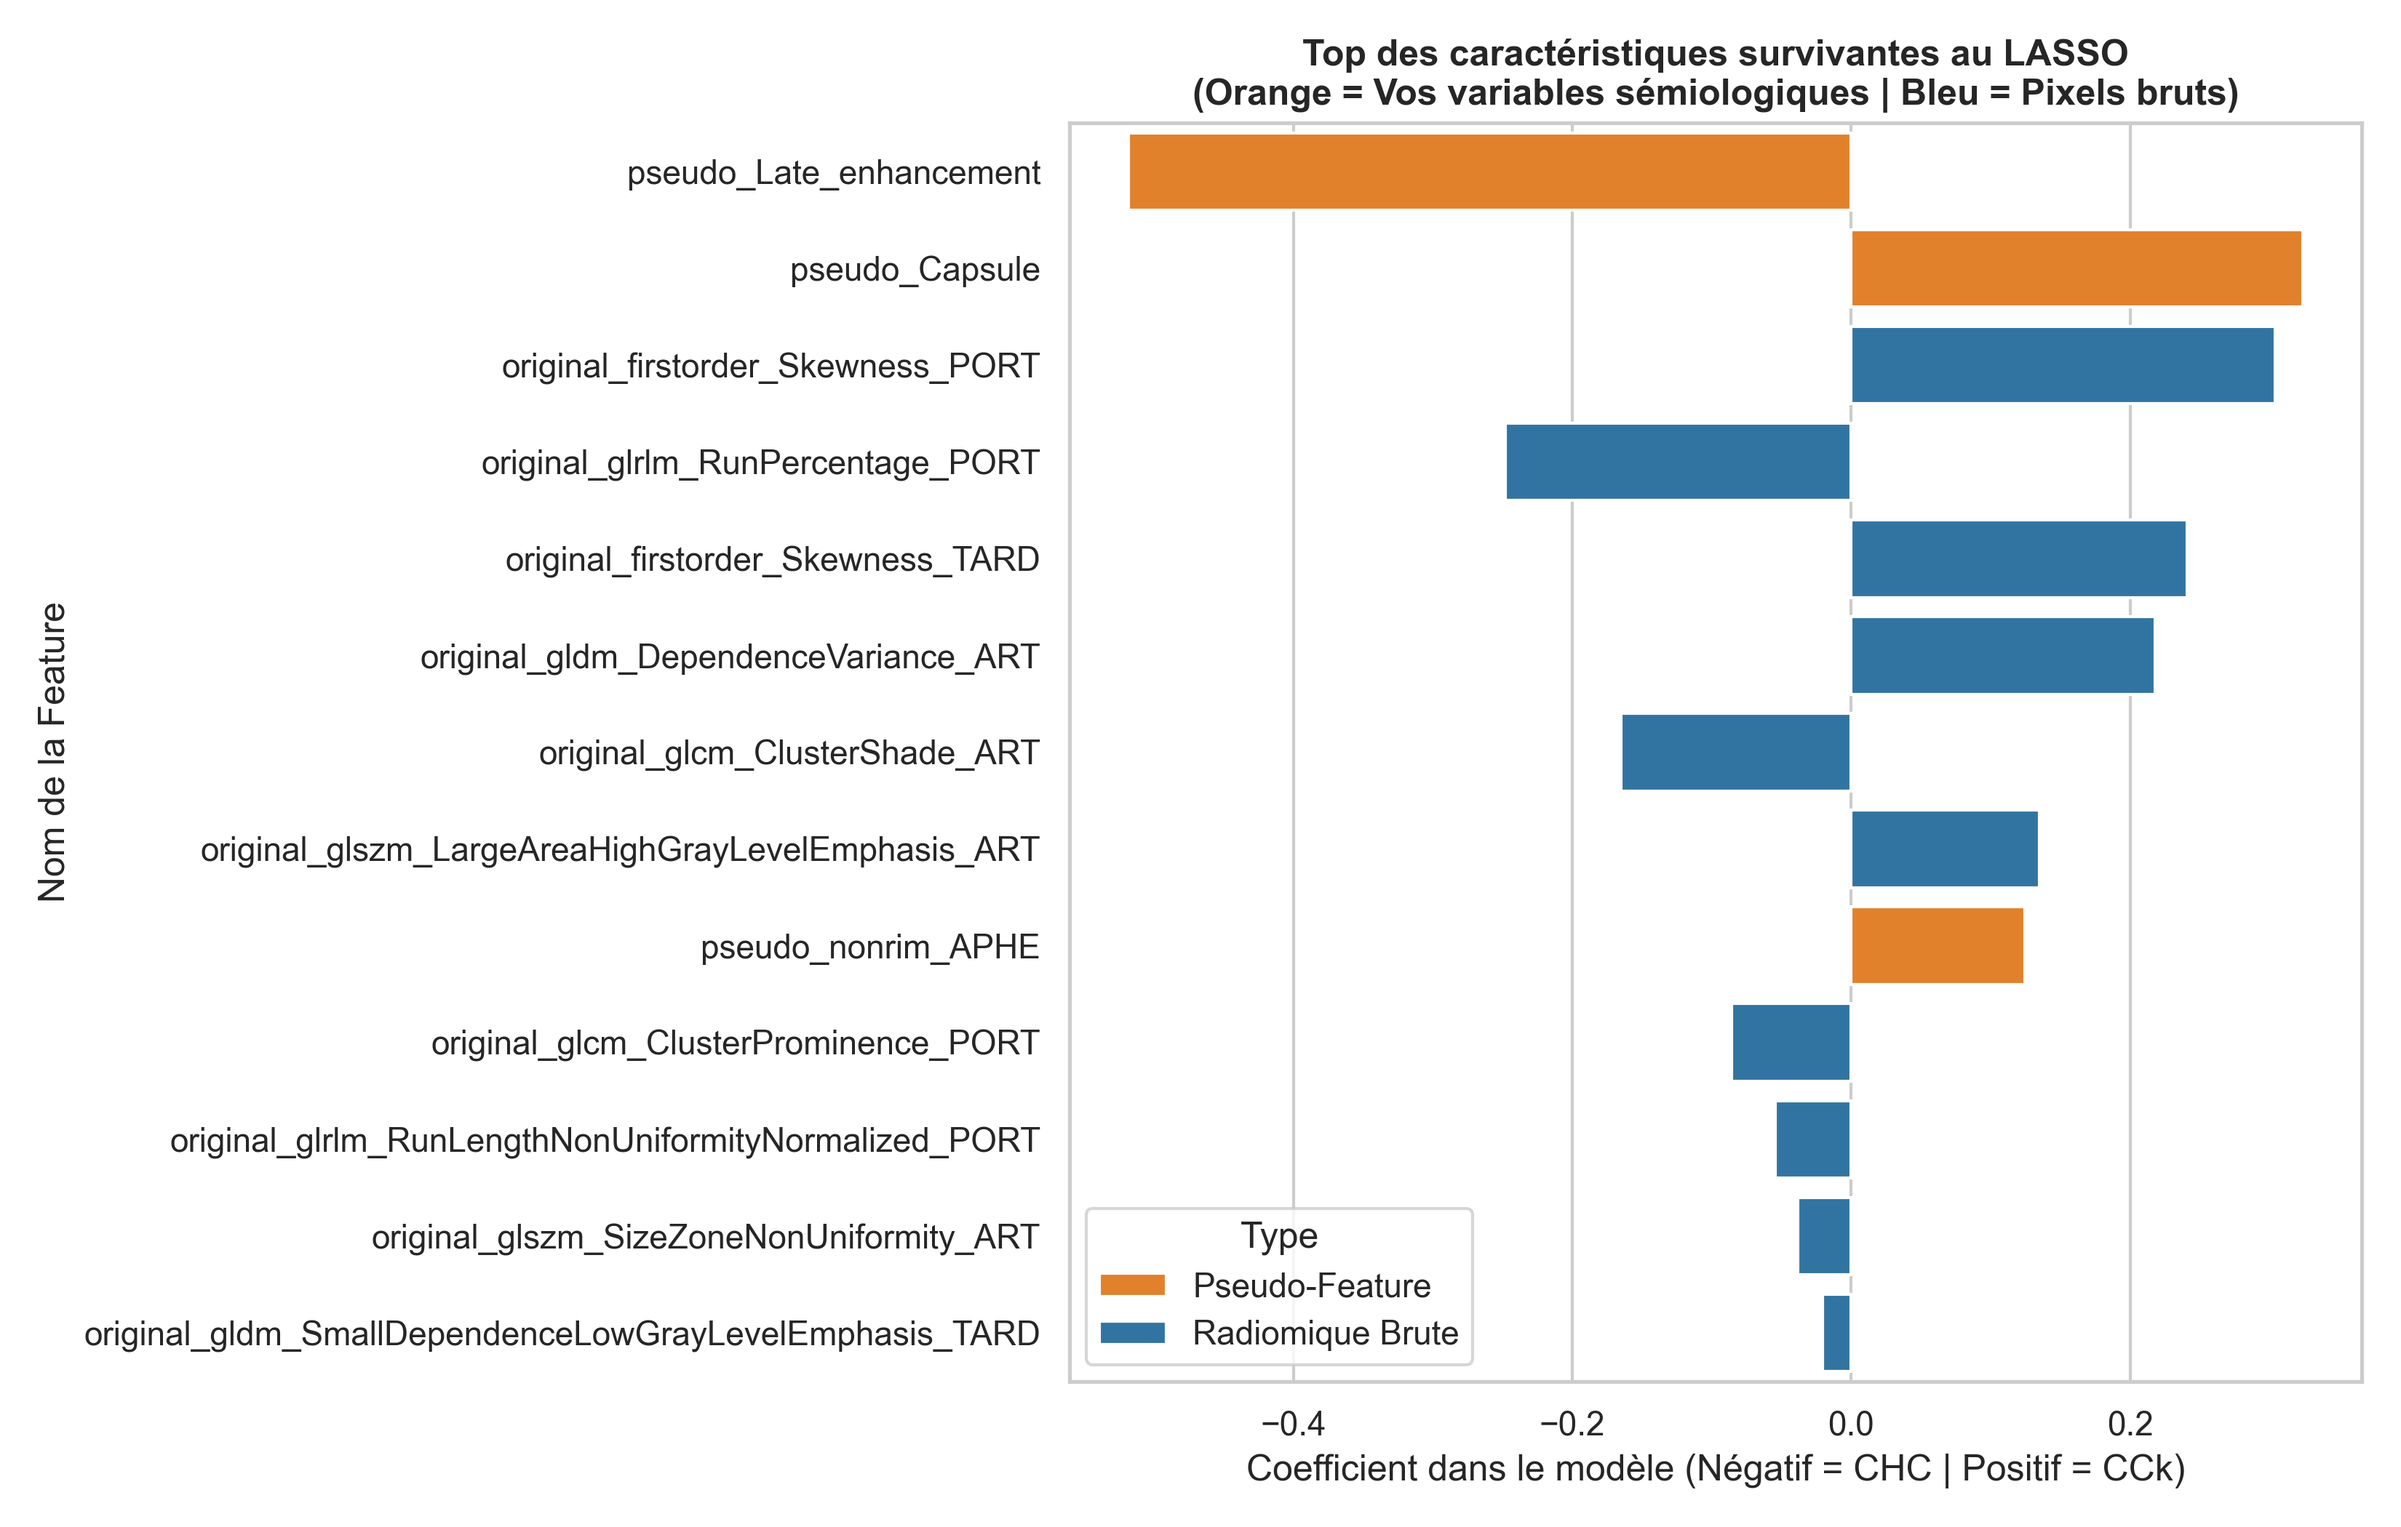
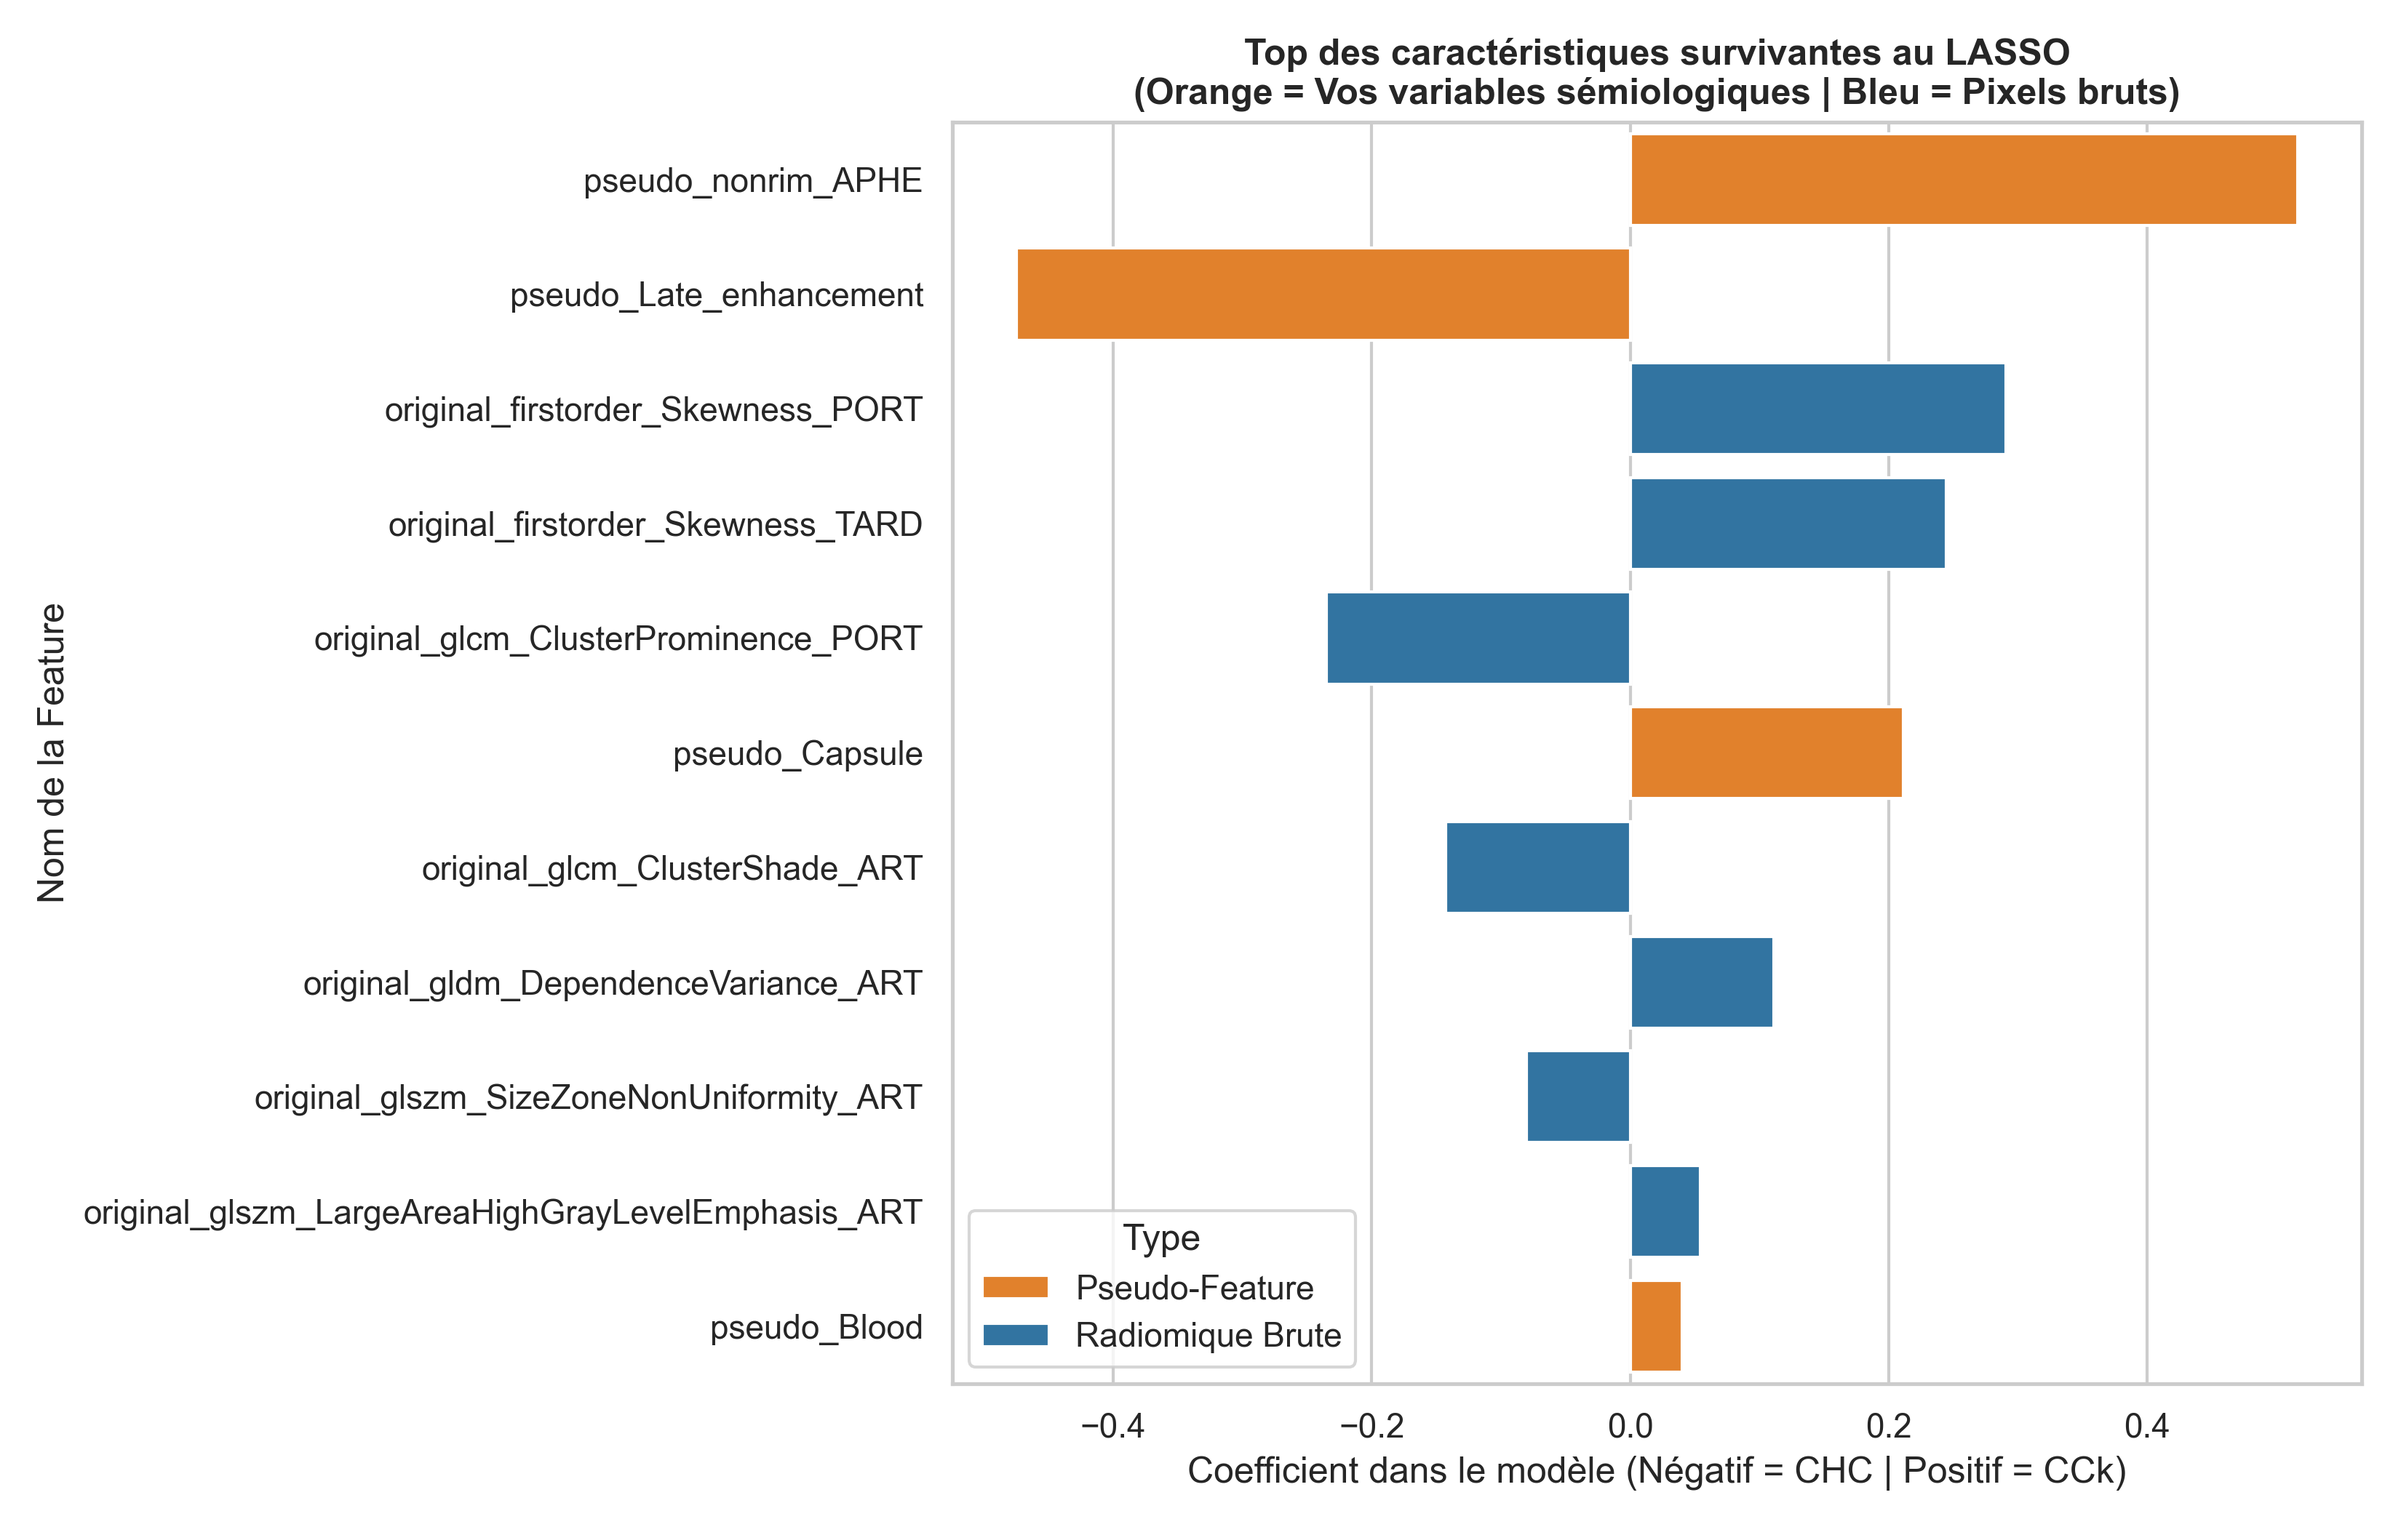
Update pipeline outputs and gridsearch/optipoids scripts
- Regenerated radiomics extraction outputs: multislice_excel_basic,
  flatted_global_scaled_uncor, Relectures_imageries (3D shape features,
  scaled/aggregated per patient instead of raw per-slice rows)
- Updated the two plots depending on this data
- gridsearch.py: improved heatmap plotting (shared colorbar, cleaner layout),
  scoped to the flatted_global_scaled_uncor input for now
- optipoids.py: explicit L2 penalty on the logistic regression

diff --git a/gridsearch.py b/gridsearch.py
@@ -8,6 +8,7 @@ from sklearn.model_selection import train_test_split
 from sklearn.preprocessing import LabelEncoder
 from validation import *
 
+"""
 input_list = [
     'global_excel_resampled_normalized_flattened.csv',
     'global_excel_resampled_normalized_flattened_deltas.csv',
@@ -15,13 +16,23 @@ input_list = [
     'flatted_global_scaled_uncor.csv',
     'flatted_global_scaled_uncor_08.csv'
 ]
+"""
 
+input_list = [
+    'flatted_global_scaled_uncor.csv'
+]
+"""
 input_titles = [
     'Manually Normalized Flattened',
     'Manually Normalized Flattened with Deltas',
     'Normalized Flattened',
     'Normalized Flattened Uncorrelated (0.9)',
     'Normalized Flattened Uncorrelated (0.8)'
+]
+"""
+
+input_titles = [
+    'Normalized Flattened Uncor',
 ]
 
 C_list = [5, 4, 3, 2, 1, 0.5, 0.3, 0.1]
@@ -85,20 +96,49 @@ for input_file, input_title in zip(input_list, input_titles):
 df_results = pd.DataFrame(results)
 
 if not df_results.empty:
-    # metrics = ['Accuracy', 'AUC', 'F1', 'MCC']
     metrics = ['Accuracy', 'F1']
-    # fig, axes = plt.subplots(1, 2, figsize=(16, 6))
-    # axes = axes.flatten()
+    fig, axes = plt.subplots(len(metrics), 1, figsize=(12, 14), sharex=True)
+    axes = np.atleast_1d(axes)
 
-    for metric in metrics:
-        plt.figure(figsize=(10, 6))
-        # Pivot des données pour seaborn (Lignes: Fichiers, Colonnes: C, Valeurs: Métrique)
+    # Calculer la plage commune pour la barre de couleur
+    all_values = pd.concat([
+        df_results.pivot(index='Input', columns='C', values=metric).stack()
+        for metric in metrics
+    ])
+    vmin = all_values.min()
+    vmax = all_values.max()
+
+    heatmap_im = None
+    for ax, metric in zip(axes, metrics):
         pivot_table = df_results.pivot(index='Input', columns='C', values=metric)
-        sns.heatmap(pivot_table, annot=True, cmap='BuPu', fmt='.1%', square=True)
-        plt.title(f'Heatmap - {metric}\nComparaison (Moyennes k-fold) selon l\'Input et C', fontweight='bold', fontsize=14)
-        plt.ylabel('')
-        plt.xlabel('Paramètre C (Régularisation)')
-        plt.tight_layout()
-        plt.show()
+        heatmap_im = sns.heatmap(
+            pivot_table,
+            annot=True,
+            annot_kws={'fontsize': 12, 'fontweight': 'bold'},
+            cmap='BuPu',
+            fmt='.1%',
+            square=True,
+            cbar=False,
+            vmin=vmin,
+            vmax=vmax,
+            ax=ax
+        )
+        ax.set_title(f'{metric} - Moyennes k-fold', fontweight='bold', fontsize=18)
+        if ax is axes[-1]:
+            ax.set_xlabel('Paramètre C (Régularisation)', fontsize=14)
+        else:
+            ax.set_xlabel('')
+        ax.set_ylabel('')
+        ax.tick_params(axis='both', labelsize=12)
+
+    fig.suptitle('Comparaison Accuracy et F1 par Input et paramètre C', fontweight='bold', fontsize=20)
+    # Récupère le mappable de la dernière heatmap pour la colorbar
+    mappable = axes[-1].collections[0]
+    cax = fig.add_axes([0.15, 0.04, 0.7, 0.03])
+    cbar = fig.colorbar(mappable, cax=cax, orientation='horizontal')
+    cbar.ax.set_xlabel('Valeur (%)', labelpad=10, fontsize=14)
+    cbar.ax.tick_params(labelsize=12)
+    plt.tight_layout(rect=[0, 0.08, 1, 0.94])
+    plt.show()
 else:
     print("Aucun résultat n'a pu être généré. Vérifiez les fichiers d'entrée.")

diff --git a/optipoids.py b/optipoids.py
@@ -55,7 +55,7 @@ for variable_y, features_x in correspondances.items():
     
     # Classification (Régression Logistique)
     if len(valeurs_uniques) <= 5:
-        modele = LogisticRegression(max_iter=1000)
+        modele = LogisticRegression(max_iter=1000, penalty="l2")
         modele.fit(X, Y)
         predictions = modele.predict(X)
         
